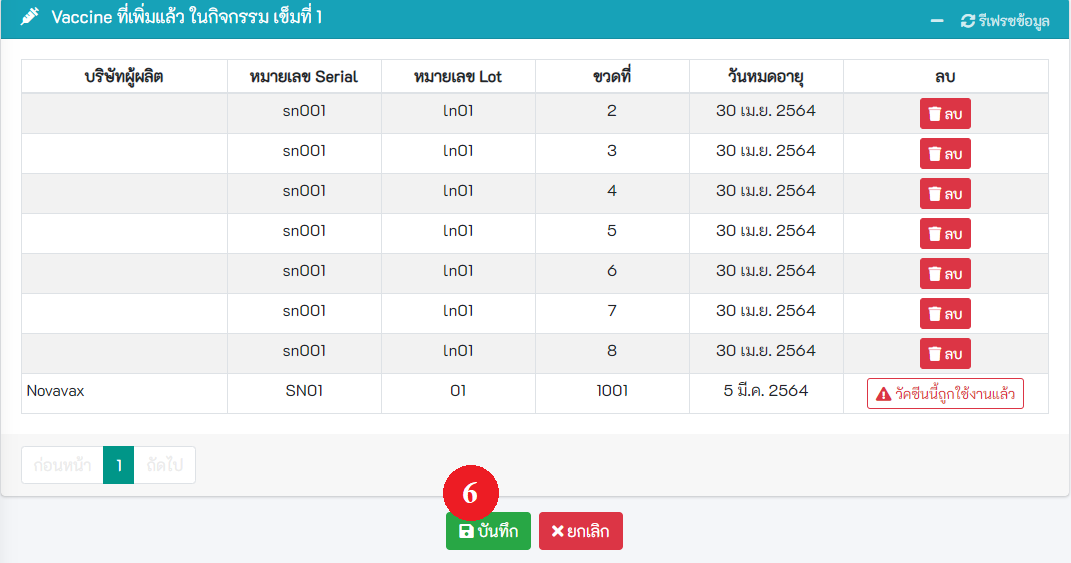
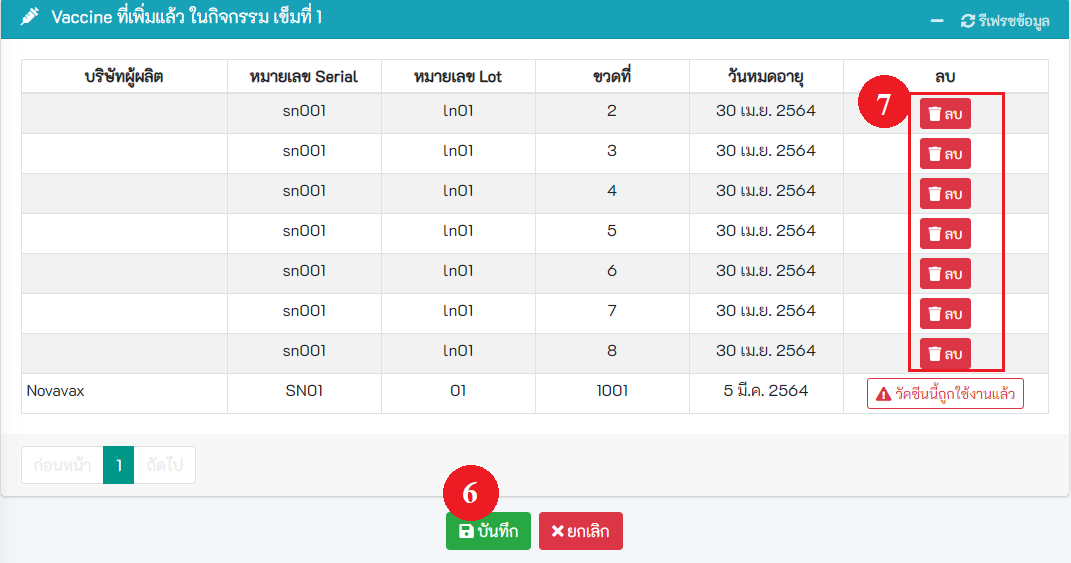
edit document by natanon

Changed region(s): [[0.8011, 0.1208, 0.9552, 0.2416], [0.8319, 0.6341, 0.9552, 0.6643]]

diff --git a/docs/.vuepress/config.js b/docs/.vuepress/config.js
@@ -1,5 +1,5 @@
 module.exports = {
-    title: 'Co-Vaccine-Moph V.0.1.6 Update 04/04/2021',
+    title: 'Co-Vaccine-Moph V.0.1.7 Update 15/04/2021',
     description: '',
     base: '/co-vaccine-docs/',
     port: '4000',

diff --git a/docs/user/prepare-work.md b/docs/user/prepare-work.md
@@ -3,50 +3,63 @@ title: 5. เตรียมปฏิบัติงาน
 ---
 
 # เตรียมปฏิบัติงาน
+เป็นเมนู สำหรับ เมนูย่อย ของการเตรียมข้อมูลต่าง ๆ ก่อนออกปฏิบัติงานการให้วัคซีน ประกอบด้วย เมนูย่อยดังนี้
 
 
-![](./img/plan-menu.png)
+## 5.1 แผนปฏิบัติงาน
+![](./img/plan-menu.png)</br>
 
-## 5.1 ค้นหาแผนปฏิบัติงาน
-- **การค้นหาและการจัดการ** สามารถทำการลบ และแก้ไขข้อมูลของแผนปฏิบัติงานได้
-- **เพิ่มแผนปฏิบัติงานใหม่**
-![](./img/plan-search.png)
+แผนปฏิบัติงาน คือ แผนให้บริการผู้รับการฉีดวัคซีน ที่ต้องสร้างก่อนออกปฏิบัติงาน 
+จุดประสงค์หลักเพื่อ ออกใบนัดรับวัคซีนครั้งต่อไป(ในแผนจะให้กำหนดวันรับวัคซีนครั้งที่ 2 กรณีต้องฉีด 2 เข็ม)และ ใช้ตรวจสอบว่าผู้รับวัคซีนได้รับวัคซีนครบตามแผนหรือไม่( เช่นsinovacต้องรับ 2 เข็ม
+ดังนั้นผู้รับวัคซีน 1 คนจะอยู่ได้แค่แผนปฏิบัติงานเดียวเท่านั้น ) กรณี ผู้รับวัคซีนมารับวัคซีน ครั้งที่ 2 ไม่ตรงวันนัด ให้เจ้าหน้าที่เลือก แผนปฏิบัติงาน ที่มีเข็มที่1 ของผู้รับวัคซีน ขึ้นมาใช้งาน เพื่อให้ครบ 2 เข็ม ในแผนเดียวกัน 
+</Br>**โดยปกติ แผนปฏิบัติงาน ควรมี 1 แผน ต่อ 1 วัน ยกเว้นมีการให้วัคซีน ต่างชนิดกัน และมีวันนัดเข็มต่อไปต่างกัน ในวันนั้นควรมี 2 แผนปฏิบัติงาน**
 
-## 5.2 เพิ่มแผนปฏิบัติงาน
+### 5.1.1 เพิ่มแผนปฏิบัติงาน
 - คลิกปุ่ม `เพิ่มแผนปฏิบัติงาน` ตามวงกลมแดงหมายเลข 1 จะพบหน้าเพิ่มแผนปฏิบัติงานการให้วัคซีน 
 ![](./img/plan-add-1.png)
-
-- ระบุ รายละเอียดของแผนการให้วัคซีน ให้ครบถ้วน โดยปกติ 1 วันควรมี 1 แผน  **กรณีมีการให้วัคซีนต่างชนิดกัน แล้วมีวันนัดต่างกัน ควรสร้างแผนใหม่**
-</Br>** วงกลมแดงหมายเลข 2 คือ วันเริ่มแผน ไม่ใช่วันนัด อาจตั้งเป็นวันเดียวกับวันนัด หรือก่อนวันนัดก็ได้
-</Br>** วงกลมแดงหมายเลข 3 คือ วันนัดครั้งแรกเพื่อให้วัคซีนเข็ม1 
-</Br>** วงกลมแดงหมายเลข 4 คือ จำนวนวันที่ให้วัคซีนครั้งถัดไป
-</Br>** วงกลมแดงหมายเลข 5 คือ จำนวนการให้วัคซีนจนครบ เช่น Sinovac จำนวน 2 ครั้ง ก็ระบุ 2
-</Br>** วงกลมแดงหมายเลข 6 คือ ปุ่มกดเพื่อให้ระบบสร้างแผนและจำนวนเข็มการให้วัคซีน </Br>
+- การตั้งชื่อแผน ควรประกอบด้วย กลุ่มเป้าหมาย ชื่อวัคซีน และวันที่ เป็นอย่างน้อย เพื่อความสะดวกของหน่วยงานเอง ในการเลือกใช้งาน
+- ระบุ รายละเอียดของแผนการให้วัคซีน ให้ครบถ้วน 
+</Br> วงกลมแดงหมายเลข 2 คือ วันเริ่มแผน ไม่ใช่วันนัด อาจตั้งเป็นวันเดียวกับวันนัด หรือก่อนวันนัดก็ได้
+</Br> วงกลมแดงหมายเลข 3 คือ วันนัดครั้งแรกเพื่อให้วัคซีนเข็ม1 
+</Br> วงกลมแดงหมายเลข 4 คือ จำนวนวันที่ให้วัคซีนครั้งถัดไป
+</Br> วงกลมแดงหมายเลข 5 คือ จำนวนการให้วัคซีนจนครบ เช่น Sinovac จำนวน 2 ครั้ง ก็ระบุ 2
+</Br> วงกลมแดงหมายเลข 6 คือ ปุ่มกดเพื่อให้ระบบสร้างแผนและจำนวนเข็มการให้วัคซีน </Br>
 </Br>จากนั้นตรวจสอบข้อมูล ตามกรอบสีแดง เพื่อ ดูวันนัดและจำนวนเข็มการให้วัคซีน ว่าถูกต้องหรือไม่</Br> จากนั้น กดปู่มบันทึก
 
-**- สำคัญมาก** ในแผนต้องมีกิจกรรมการให้วัคซีนตามจำนวนเข็มเท่านั้น ห้ามสร้างเกิน เช่น Sinovac ต้องให้จำนวน 2 เข็ม ก็มี 2 เข็มเท่านั้น จำนวนรวมของกิจกรรมห้ามเกิน 2
+**- สำคัญมาก** ในแผนต้องมีกิจกรรมการให้วัคซีนตามจำนวนเข็มเท่านั้น ห้ามสร้างเกิน เช่น Sinovac ต้องให้จำนวน 2 เข็ม ก็มี 2 เข็มเท่านั้น จำนวนรวมของกิจกรรมห้ามเกิน 2 **ห้ามสร้างกิจกรรมเกินเด็ดขาด**
 ![](./img/plan-add-2.jpg)
+### 5.1.2 การค้นหาและการจัดการ สามารถทำการลบ และแก้ไขข้อมูลของแผนปฏิบัติงานได้
+- **ค้นหาแผนปฏิบัติงาน** สามารถใส่คำค้นและกดค้นหาได้จากกรอบวงแดงตามรูป
+</Br> วงกลมแดงหมายเลข 1 คือ ปุ่มเข้าแก้ไขแผน การแก้ไขแผนดูได้ที่ หัวข้อ 5.1.3 
+</Br> วงกลมแดงหมายเลข 2 คือ จำนวนผู้รับวัคซีนทั้งหมดในแผนนั้น โดยเป็นตัวเลขของเข็ม1และเข็ม2 บวกกัน 
+</Br> วงกลมแดงหมายเลข 3 คือ ปุ่มลบแผน จะปรากฏเมื่อ ไม่มีผู้รับวัคซีนในแผนนั้น 
+** ข้อสำคัญให้ลบการผูกวัคซีนที่ยังไม่ได้ใช้ ออกจากกิจกรรมในแผนทุกครั้ง ก่อนการลบแผน ดูหัวข้อ 5.4 ล่างสุด เรื่องการลบการผูกวัคซีน **
+![](./img/planmanagement.jpg)
 
 
+### 5.1.3 การแก้ไขข้อมูลของแผนปฏิบัติงาน
+**ข้อสำคัญห้ามกด วงกลมแดงหมายเลข 1 และลบการผูกวัคซีนที่ยังไม่ได้ใช้ ออกจากกิจกรรมในแผนทุกครั้ง ก่อนการแก้ไข ดูหัวข้อ 5.4 ล่างสุด เรื่องการลบการผูกวัคซีน** กรณีต้องการเปลี่ยนวันที่นัด ยกทั้งแผนปฏิบัติงานให้กดในกรอบตาม วงกลมแดงหมายเลข 2 เพื่อเลือกวันที่ด้วยตนเอง
+ระบบไม่สามารถแก้ไขการนัดเป็นรายคนได้ 
+</Br> วงกลมแดงหมายเลข 3 คือ ข้อมูลบอกว่ามีผู้รับวัคซีนเข็มนั้นจำนวนเท่าไหร่ จากตัวอย่าง มีผู้รับวัคซีนเข็ม 1 จำนวน 1 คน เข็ม 2 จำนวน 1 คน
+![](./img/editplan01.jpg)
 
-## 5.3 เพิ่มผู้ปฏิบัติงานในแผนฯ
+
+## 5.2 เพิ่มผู้ปฏิบัติงานในแผนฯ
 
 ![](./img/user-to-plan-1.png)
-### 5.3.1 รหัสสถานบริการเดียวกัน
+### 5.2.1 รหัสสถานบริการเดียวกัน
 - เลือกแผนปฏิบัติงาน และเลือกรายชื่อผู้ปฏิบัติงานในแผน หลังจากนั้นกดปุ่ม **บันทึก**
 
 ![](./img/user-to-plan-2-3.png)
 
-### 5.3.2 กรณีเพิ่มผู้ใช้งานจากโรงพยาบาล/สถานพยาบาลอื่น
+### 5.2.2 กรณีเพิ่มผู้ใช้งานจากโรงพยาบาล/สถานพยาบาลอื่น
 - ระบุเงื่อนไขในการค้นหา เช่น เลขบัตรประจำตัวประชาชน รหัสสถานพยาบาล ขื่อ นามสกุล หลังจากนั้นกดปุ่ม **ค้นหา**
 - คลิกที่ checkbox เพื่อเลือกผู้ปฏิบัติงาน หลังจากนั้นกดปุ่ม บันทึก
 
 ![](./img/user-plan-4-difference-hoscode.png)
 
-## 5.4 เมนูเพิ่มข้อมูลวัคซีน
-
-- **กดเพิ่มข้อมูลวัคซีนจากเมนูด้านซ้าย ตามรูปหมายเลข1**
-
+## 5.3 เมนูเพิ่มข้อมูลวัคซีน
+เนื้อหา 1.การค้นหา 2.การเพิ่มข้อมูลรายขวด 3.การเพิ่มข้อมูลรายกล่อง  4.การแก้ไขข้อมูลวัคซีนที่ฉีดไปแล้ว
 ![](./img/add-vaccine-1.png)
 
 - **การค้นหาข้อมูลวัคซีน** 
@@ -59,7 +72,7 @@ title: 5. เตรียมปฏิบัติงาน
   - ตรวจสอบจำนวนการใช้ต่อ 1 ขวด ให้ถูกต้อง ตามวงกลมแดงหมายเลข 3 เพื่อให้ระบบทราบว่าวัคซีน 1 รหัสใช้ได้กี่ครั้ง
   - **เมื่อเสร็จแล้ว กดปุ่ม บันทึก** ตามวงกลมแดงหมายเลข 4
   ![](./img/add-vaccine-1_3.jpg)
-  
+  </Br></Br>
 
 - **เพิ่มข้อมูลวัคซีนรายกล่อง** ตามรูปหมายเลข 1
   ![](./img/add-vaccine-2_1.png)
@@ -69,9 +82,27 @@ title: 5. เตรียมปฏิบัติงาน
   - ตรวจสอบจำนวนการใช้ต่อ 1 ขวด ให้ถูกต้อง ตามวงกลมแดงหมายเลข 3 เพื่อให้ระบบทราบว่าวัคซีน 1 รหัสใช้ได้กี่ครั้ง
   - **เมื่อเสร็จแล้ว กดปุ่ม บันทึก** ตามวงกลมแดงหมายเลข 4
   ![](./img/add-vaccine-2_2.jpg)
-  
+  </Br></Br>
 
-## 5.5 ผูกวัคซีนกับกิจกรรม
+- **การแก้ไขข้อมูลวัคซีนที่ฉีดไปแล้ว** </Br>
+การแก้ไขวัคซีนที่ฉีดไปแล้ว มีความเสี่ยงผิดพลาดจากขั้นตอน ลบข้อมูลออกจากระบบ MOPH IC ให้ดำเนินการด้วยความระมัดระวังและการแก้ไขอาจกระทบกับระบบหมอพร้อมของผู้รับวัคซีนรายนั้นได้ เนื่องจากเป็นการลบข้อมูล แล้วส่งไปยังระบบ MOPH IC ใหม่ </Br>
+ก่อนจะแก้ไขได้ต้องทราบว่า barcode ของวัคซีนที่จะแก้ไขนั้น ฉีดให้ใคร และต้องดำเนินการโดยเจ้าหน้าที่ ที่บันทึกผู้รับวัคซีนรายนั้นเท่านั้น เพราะผู้อื่นไม่สามารถกดลบตามขั้นตอนที่ 3 ได้ เมื่อทราบแล้วให้ดำเนินการตามขั้นตอนดังนี้
+จากรูปตัวอย่าง ต้องการแก้ วัคซีน barcode 0000000066 สังเกตุว่าจะขึ้นสถานะใช้งานแล้ว
+  ![](./img/editvaccine01.jpg)</Br></Br>
+-ขั้นตอนที่ 1 ลบข้อมูลการฉีดด้วยวัคซีนที่ต้องการแก้ไขออกจากระบบ [MOPH Immunization Center Dashboard](https://cvp1.moph.go.th/dashboard/)(MOPH IC) จากนั้นเข้าเมนูออกปฏิบัติงาน->รายการลงทะเบียน ค้นหาผู้รับวัคซีนที่ได้รับวัคซีนที่ต้องการแก้ไข </Br></Br>
+-ขั้นตอนที่ 2 กดรูปดวงตาตามวงกลมแดงหมายเลข 1 เพื่อตรวจสอบว่าข้อมูลลบออกจาก MOPH IC หรือยัง 
+  ![](./img/editvaccine02.jpg)</Br></Br>
+
+  หากเป็นการฉีดครั้งแรก ข้อมูลต้องขึ้นตามรูปตัวอย่าง แสดงว่าลบข้อมูลออกจาก MOPH IC แล้ว 
+  ![](./img/editvaccine03.jpg)</Br></Br>
+  -ขั้นตอนที่ 3 กดปุ่มลบ ตามวงกลมแดงหมายเลข 2
+  ![](./img/editvaccine04.jpg)</Br></Br>
+  -ขั้นตอนที่ 4 กดปุ่มใช่ เพื่อยีนยันการลบ
+  ![](./img/editvaccine05.jpg)</Br></Br>
+  -ขั้นตอนที่ 5 เลือกเมนู เตรียมปฏิบัติงาน->เพิ่มข้อมูลวัคซีน จะพบว่า วัคซีน Barcode 0000000066 สามารถแก้ไขได้แล้ว ให้กดแก้ไขได้เลย
+  ![](./img/editvaccine06.jpg)</Br></Br>
+
+## 5.4 ผูกวัคซีนกับกิจกรรม
 
 
 ![](./img/vaccine-join-1.png)
@@ -89,9 +120,9 @@ title: 5. เตรียมปฏิบัติงาน
 
 - แสดงวัคซีนที่เลือก หลังจากนั้นกดปุ่ม **บันทึก** ตามรูปหมายเลข 6
   ![](./img/vaccine-activity6.png)
+- **การลบการผูกวัคซีน** ให้กดปุ่ม "ลบ" ในกรอบตามวงกลมแดงหมายเลข 7 หลังจากนั้นกดปุ่ม **บันทึก** วงกลมแดงหมายเลข 6 วัคซีนที่ลบจากการผูกจะสามารถนำไปผูกกับเข็มของแผนอื่นได้
 
-
-## 5.6 พิมพ์ QR Code วัคซีน
+## 5.5 พิมพ์ QR Code วัคซีน
 
 
 ![](./img/qrcode-1.png)

diff --git a/docs/user/login.md b/docs/user/login.md
@@ -6,14 +6,16 @@ title: 1. เข้าสู่ระบบ
 
 - เข้าสู่ระบบ https://co-vaccine.moph.go.th
 1. กรอกเลขบัตรประจำตัวประชาชน
-1. คลิก! ตรวจสอบ
-1. กรอกรหัสผ่านผู้ใช้งาน
-1. กดยืนยันรหัสผ่าน
-1. เลือกแผนปฏิบัติงาน 
-1. เลือกกิจกรรม
+2. คลิก! ตรวจสอบ
+3. กรอกรหัสผ่านผู้ใช้งาน
+4. กดยืนยันรหัสผ่าน
+5. เลือกแผนปฏิบัติงาน หากไม่เจอแผนที่ต้องการ ให้ติ๊กที่คำว่า "ค้นหาจากทั้งหมดเมื่อพิมพ์" ตามวงกลมแดง หมายเลข 6 จากนั้นจะสามารถพิมพ์ค้นหาได้ ที่ช่อง ตามวงกลมแดง หมายเลข 5 
+6. เลือกกิจกรรม ตามวงกลมแดง หมายเลข 7
 
 ![](./img/user-1.png)
-![](./img/user-1_1.png)
+![](./img/password.jpg)
+![](./img/searchlogin01.jpg)
+![](./img/searchlogin02.jpg)
 
 ## 1.2. กรณีลืมรหัสผ่าน
 กรณีลืมรหัสผ่าน ให้กดปุ่ม ![](./img/user-forgetpassword_1.png) และ**กรอกข้อมูลให้ครบ**ตามแบบฟอร์มที่กำหนด หลังจากนั้น  กดปุ่ม **กำหนดรหัสผ่าน**

diff --git a/docs/README.md b/docs/README.md
@@ -10,4 +10,4 @@
 >เมนูเพิ่มเติมอื่น ๆ สามารถกดปุ่มไอคอนแฮมเบอร์เกอร์
 ![](./img/menu-top.png)
 
-### Version 0.1.6 Update 04/04/2021 11:39 AM
+### Version 0.1.7 Update 15/04/2021 11:39 AM
